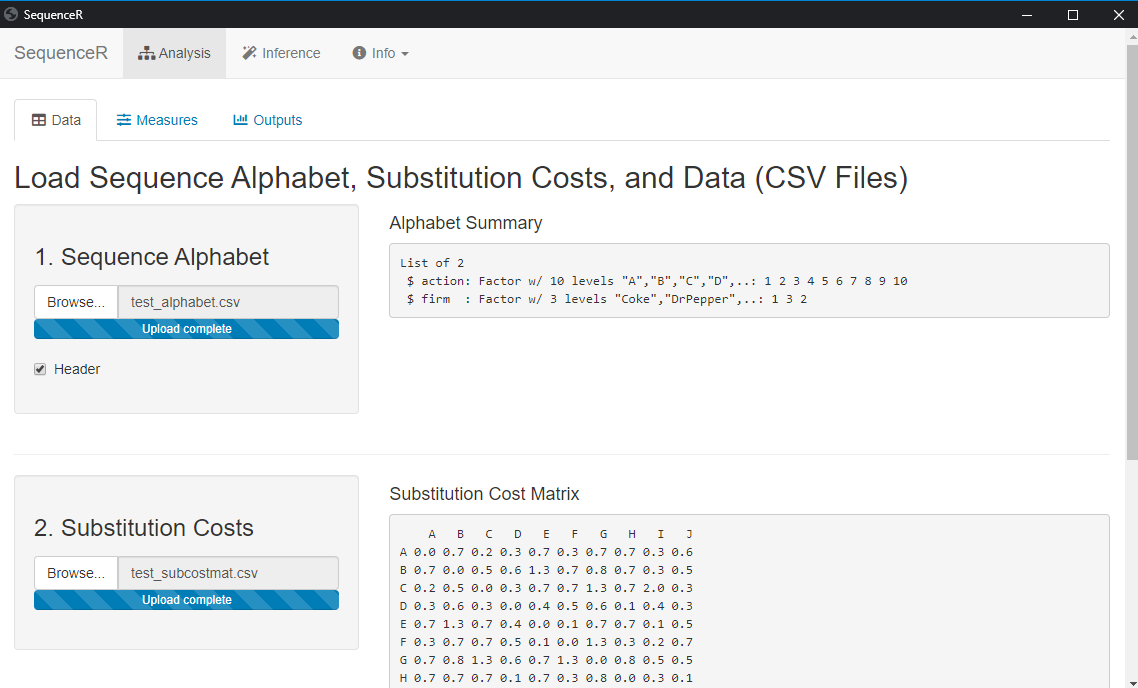
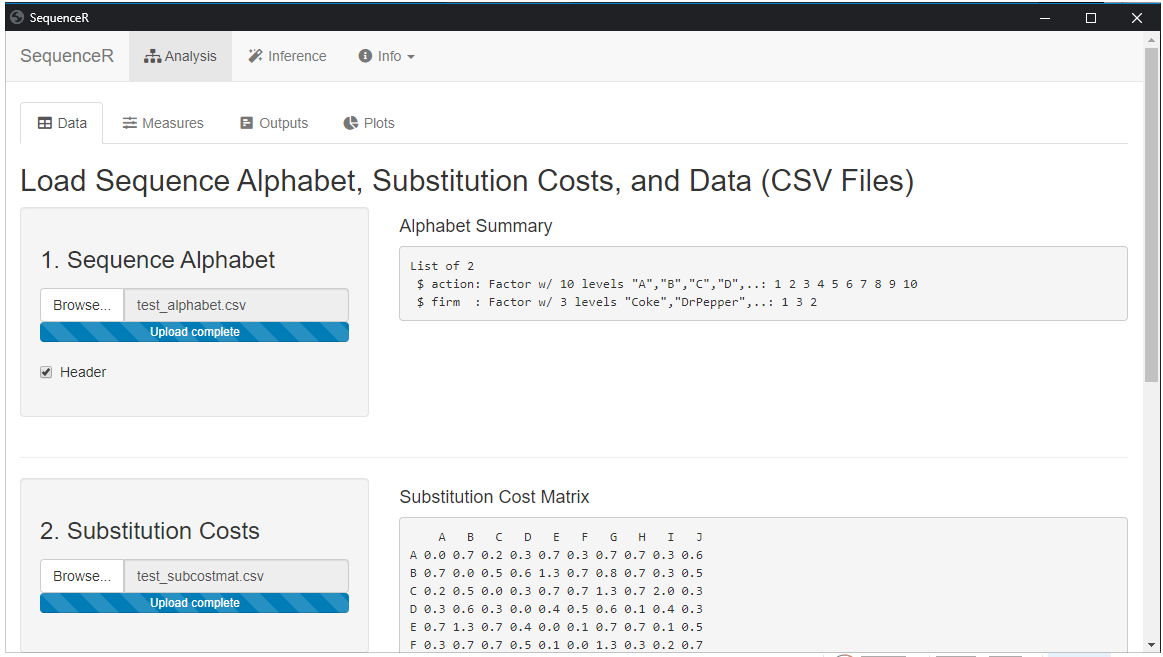
updates readme info, pngs

diff --git a/README.md b/README.md
@@ -53,12 +53,18 @@ SequenceR
 
 [![](/_img/readme_analysis_measures.png "Measures")](#2-select-measures)
 
-### 3. Output Results and Plots
+### 3. Output Results
 
-- Sequence summary outputs
+- Sequence measures summary
+- Download results
+
+[![](/_img/readme_analysis_outputs.png "Outputs")](#3-output-results)
+
+### 4. Plots
+
 - Plots
 
-[![](/_img/readme_analysis_outputs.png "Outputs")](#3-output-results-and-plots)
+[![](/_img/readme_analysis_plots.png "Plots")](#4-plots)
 
 
 
